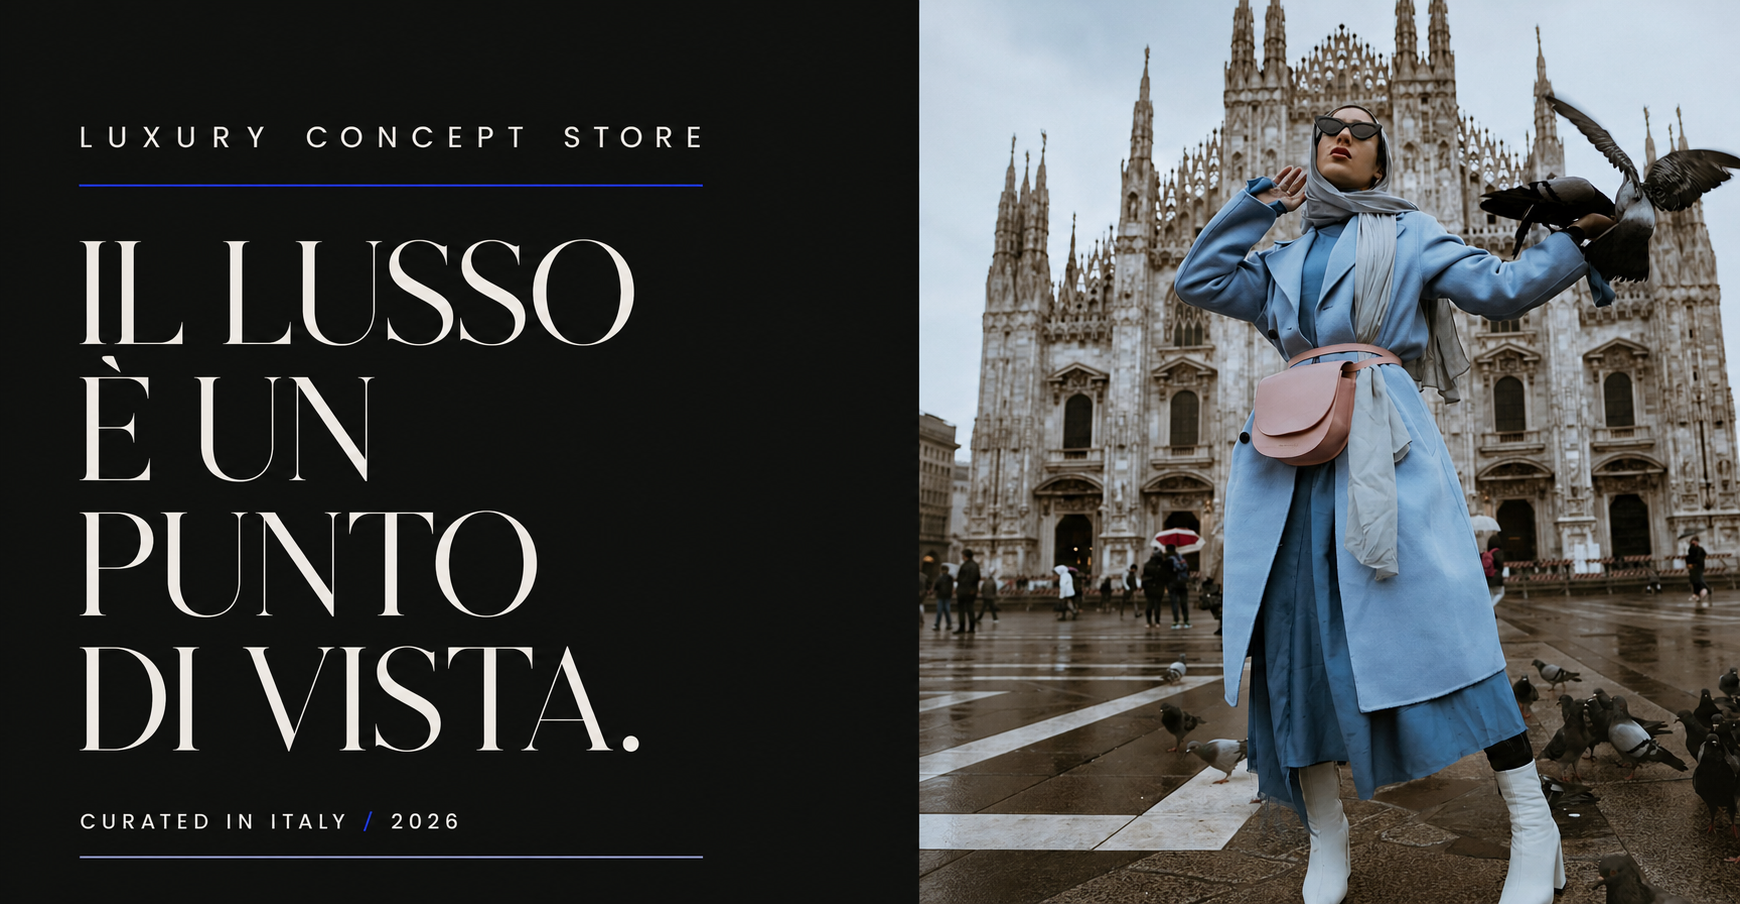
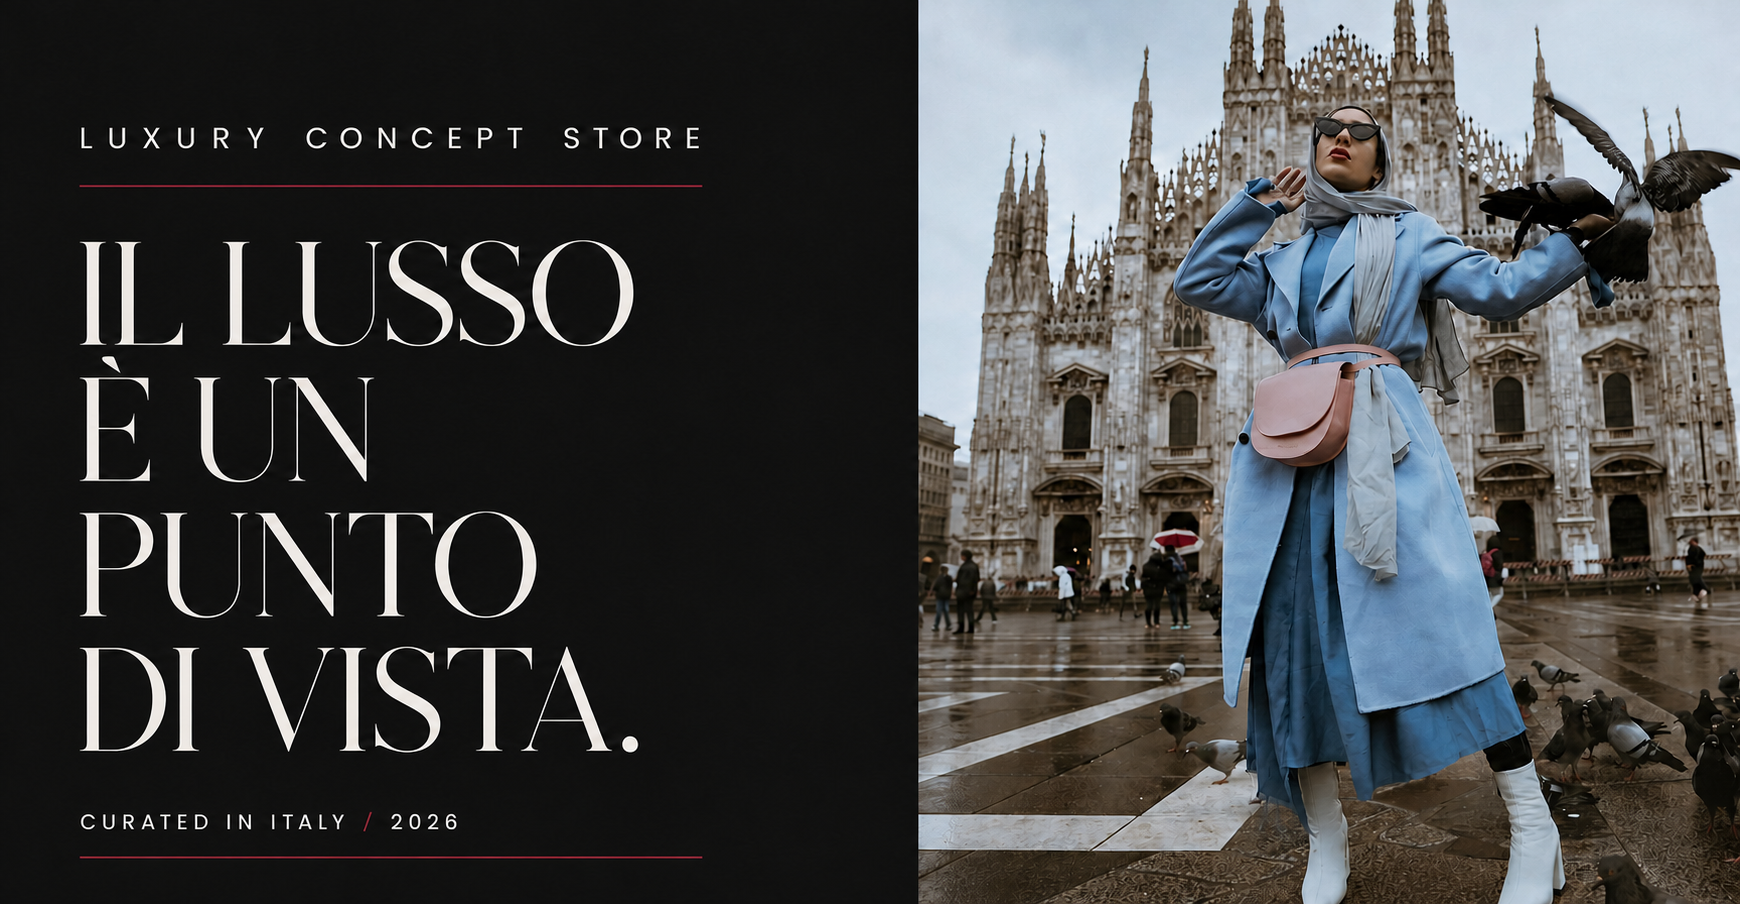
Replace electric blue with oxblood palette

diff --git a/app/globals.css b/app/globals.css
@@ -5,7 +5,8 @@
   --paper: #f0ede6;
   --chalk: #faf9f5;
   --soft: #d9d5cb;
-  --blue: #3157ed;
+  --accent: #6b2737;
+  --accent-soft: #c99aa3;
   --line: rgba(17, 18, 16, 0.18);
   --serif: Baskerville, "Palatino Linotype", "Book Antiqua", Georgia, serif;
   --sans: "Helvetica Neue", Helvetica, Arial, sans-serif;
@@ -29,10 +30,10 @@ body, button, input, textarea, select { font-family: var(--sans); }
 a { color: inherit; text-decoration: none; }
 button { border: 0; background: none; color: inherit; cursor: pointer; }
 img { display: block; max-width: 100%; }
-::selection { background: var(--blue); color: #fff; }
+::selection { background: var(--accent); color: #fff; }
 
 a:focus-visible, button:focus-visible, input:focus-visible, textarea:focus-visible, select:focus-visible {
-  outline: 2px solid var(--blue);
+  outline: 2px solid var(--accent);
   outline-offset: 4px;
 }
 
@@ -42,7 +43,7 @@ a:focus-visible, button:focus-visible, input:focus-visible, textarea:focus-visib
   grid-template-columns: 1fr auto 1fr;
   align-items: center;
   padding: 0 28px;
-  background: var(--blue);
+  background: var(--accent);
   color: #fff;
   font-size: 8px;
   font-weight: 700;
@@ -112,7 +113,7 @@ a:focus-visible, button:focus-visible, input:focus-visible, textarea:focus-visib
 .store-nav a:hover::after, .store-actions a:hover::after { right: 0; }
 .store-actions { display: flex; justify-content: flex-end; align-items: center; gap: 25px; }
 .store-bag { display: flex; gap: 9px; }
-.store-bag span { color: var(--blue); }
+.store-bag span { color: var(--accent); }
 .store-menu-toggle, .store-mobile-nav { display: none; }
 
 .home-page { overflow: hidden; }
@@ -153,7 +154,7 @@ a:focus-visible, button:focus-visible, input:focus-visible, textarea:focus-visib
   letter-spacing: -.06em;
 }
 
-.hero-copy-panel h1 em { color: #aebdfd; font-weight: 400; }
+.hero-copy-panel h1 em { color: var(--accent-soft); font-weight: 400; }
 
 .hero-copy-bottom {
   display: grid;
@@ -241,7 +242,7 @@ a:focus-visible, button:focus-visible, input:focus-visible, textarea:focus-visib
   display: flex;
   align-items: center;
   overflow: hidden;
-  background: var(--blue);
+  background: var(--accent);
   color: #fff;
   white-space: nowrap;
 }
@@ -266,9 +267,9 @@ a:focus-visible, button:focus-visible, input:focus-visible, textarea:focus-visib
 }
 
 .manifesto-label { display: flex; align-items: flex-start; gap: 15px; padding-top: 9px; }
-.manifesto-label span { color: var(--blue); font-size: 10px; font-weight: 800; }
+.manifesto-label span { color: var(--accent); font-size: 10px; font-weight: 800; }
 .manifesto-label p { margin: 0; font-size: 9px; font-weight: 700; letter-spacing: .18em; text-transform: uppercase; }
-.manifesto-copy > .micro-label { color: var(--blue); }
+.manifesto-copy > .micro-label { color: var(--accent); }
 
 .manifesto-copy h2 {
   max-width: 1160px;
@@ -282,7 +283,7 @@ a:focus-visible, button:focus-visible, input:focus-visible, textarea:focus-visib
 
 .manifesto-lead {
   margin: 0 0 clamp(60px, 9vw, 120px);
-  color: var(--blue);
+  color: var(--accent);
   font-family: var(--serif);
   font-size: clamp(30px, 4vw, 66px);
   font-style: italic;
@@ -303,10 +304,10 @@ a:focus-visible, button:focus-visible, input:focus-visible, textarea:focus-visib
 .category-story { padding: 0 clamp(18px, 3vw, 48px) clamp(110px, 13vw, 190px); background: var(--paper); }
 .category-heading { display: grid; grid-template-columns: 28% 1fr; align-items: end; margin-bottom: 60px; }
 .category-heading > div { display: flex; gap: 14px; padding-bottom: 12px; }
-.category-heading > div span { color: var(--blue); font-size: 10px; font-weight: 700; }
+.category-heading > div span { color: var(--accent); font-size: 10px; font-weight: 700; }
 .category-heading > div p { margin: 0; font-size: 9px; font-weight: 700; letter-spacing: .18em; text-transform: uppercase; }
 .category-heading h2 { margin: 0; font-family: var(--serif); font-size: clamp(52px, 6.4vw, 105px); font-weight: 400; line-height: .9; letter-spacing: -.045em; }
-.category-heading h2 em { color: var(--blue); font-weight: 400; }
+.category-heading h2 em { color: var(--accent); font-weight: 400; }
 
 .category-mosaic { display: grid; grid-template-columns: 1.05fr .78fr 1.07fr; align-items: end; gap: 12px; }
 .category-tile { position: relative; min-height: 660px; overflow: hidden; color: #fff; isolation: isolate; }
@@ -326,16 +327,16 @@ a:focus-visible, button:focus-visible, input:focus-visible, textarea:focus-visib
 .feature-image img { object-fit: cover; object-position: center; }
 .feature-image > span { position: absolute; right: 22px; bottom: 20px; font-size: 8px; font-weight: 700; letter-spacing: .18em; text-transform: uppercase; }
 .feature-copy { position: relative; display: flex; flex-direction: column; align-items: flex-start; justify-content: center; padding: clamp(60px, 8vw, 130px); overflow: hidden; }
-.feature-copy > .micro-label { color: #aebdfd; }
+.feature-copy > .micro-label { color: var(--accent-soft); }
 .feature-copy h2 { position: relative; z-index: 1; margin: 28px 0 38px; font-family: var(--serif); font-size: clamp(62px, 7vw, 120px); font-weight: 400; line-height: .82; letter-spacing: -.055em; }
-.feature-copy h2 em { color: #aebdfd; font-weight: 400; }
+.feature-copy h2 em { color: var(--accent-soft); font-weight: 400; }
 .feature-copy > p:not(.micro-label) { position: relative; z-index: 1; max-width: 500px; margin: 0 0 45px; color: rgba(255,255,255,.62); font-family: var(--serif); font-size: 19px; line-height: 1.55; }
 .text-link { position: relative; z-index: 1; display: inline-flex; gap: 30px; padding-bottom: 9px; border-bottom: 1px solid currentColor; font-size: 9px; font-weight: 700; letter-spacing: .18em; text-transform: uppercase; }
 .feature-signature { position: absolute; right: -24px; bottom: -45px; color: rgba(255,255,255,.035); font-family: var(--serif); font-size: 300px; line-height: .8; }
 
 .objects-section { padding: clamp(100px, 13vw, 190px) clamp(18px, 5vw, 84px); background: var(--chalk); }
 .objects-intro { display: grid; grid-template-columns: 18% 1fr minmax(250px, 360px); align-items: end; gap: 35px; margin-bottom: 65px; }
-.objects-intro > span { align-self: start; color: var(--blue); font-size: 10px; font-weight: 800; }
+.objects-intro > span { align-self: start; color: var(--accent); font-size: 10px; font-weight: 800; }
 .objects-intro h2 { margin: 14px 0 0; font-family: var(--serif); font-size: clamp(60px, 7vw, 110px); font-weight: 400; line-height: .82; letter-spacing: -.05em; }
 .objects-intro > p { margin: 0; padding-top: 20px; border-top: 1px solid var(--ink); font-family: var(--serif); font-size: 18px; line-height: 1.45; }
 .objects-grid { display: grid; grid-template-columns: 1.4fr .8fr; align-items: end; gap: 12px; }
@@ -345,9 +346,9 @@ a:focus-visible, button:focus-visible, input:focus-visible, textarea:focus-visib
 .object-card:hover img { transform: scale(1.025); }
 .object-card > span { position: absolute; right: 16px; bottom: 16px; padding: 9px 12px; background: var(--chalk); font-size: 8px; font-weight: 700; letter-spacing: .15em; text-transform: uppercase; }
 
-.newsletter-section { display: grid; grid-template-columns: 1.1fr .9fr; gap: clamp(60px, 9vw, 150px); padding: clamp(100px, 12vw, 180px) clamp(24px, 7vw, 115px); background: var(--blue); color: #fff; }
+.newsletter-section { display: grid; grid-template-columns: 1.1fr .9fr; gap: clamp(60px, 9vw, 150px); padding: clamp(100px, 12vw, 180px) clamp(24px, 7vw, 115px); background: var(--accent); color: #fff; }
 .newsletter-section h2 { margin: 24px 0 0; font-family: var(--serif); font-size: clamp(54px, 6.6vw, 108px); font-weight: 400; line-height: .85; letter-spacing: -.05em; }
-.newsletter-section h2 em { color: #d9dfff; font-weight: 400; }
+.newsletter-section h2 em { color: #ead9dc; font-weight: 400; }
 .newsletter-copy { align-self: end; }
 .newsletter-copy > p { max-width: 480px; margin: 0 0 55px; font-family: var(--serif); font-size: 20px; line-height: 1.45; }
 .newsletter-form > label { display: block; margin-bottom: 8px; font-size: 8px; font-weight: 700; letter-spacing: .2em; text-transform: uppercase; }
@@ -361,15 +362,15 @@ a:focus-visible, button:focus-visible, input:focus-visible, textarea:focus-visib
 
 .store-footer { background: var(--ink); color: #fff; }
 .footer-statement { min-height: 520px; display: grid; grid-template-columns: 20% 1fr auto; align-items: end; gap: 40px; padding: 80px clamp(24px, 5vw, 82px); border-bottom: 1px solid rgba(255,255,255,.14); }
-.footer-statement > p { align-self: start; margin: 0; color: #aebdfd; font-size: 9px; font-weight: 700; letter-spacing: .2em; text-transform: uppercase; }
+.footer-statement > p { align-self: start; margin: 0; color: var(--accent-soft); font-size: 9px; font-weight: 700; letter-spacing: .2em; text-transform: uppercase; }
 .footer-statement h2 { margin: 0; font-family: var(--serif); font-size: clamp(64px, 8vw, 132px); font-weight: 400; line-height: .8; letter-spacing: -.06em; }
-.footer-statement h2 em { color: #aebdfd; font-weight: 400; }
+.footer-statement h2 em { color: var(--accent-soft); font-weight: 400; }
 .footer-statement > a { display: inline-flex; gap: 20px; padding-bottom: 9px; border-bottom: 1px solid #fff; font-size: 8px; font-weight: 700; letter-spacing: .16em; text-transform: uppercase; }
 .footer-grid { display: grid; grid-template-columns: 1.7fr .6fr .7fr 1fr; gap: 60px; padding: 75px clamp(24px, 5vw, 82px); }
 .store-wordmark-light strong { font-size: 33px; }
 .store-wordmark-light span { color: rgba(255,255,255,.62); }
 .footer-links { display: flex; flex-direction: column; align-items: flex-start; gap: 10px; font-style: normal; }
-.footer-links > p { margin: 0 0 12px; color: #aebdfd; font-size: 8px; font-weight: 700; letter-spacing: .18em; text-transform: uppercase; }
+.footer-links > p { margin: 0 0 12px; color: var(--accent-soft); font-size: 8px; font-weight: 700; letter-spacing: .18em; text-transform: uppercase; }
 .footer-links a, .footer-links span { color: rgba(255,255,255,.62); font-family: var(--serif); font-size: 14px; line-height: 1.35; }
 .footer-links a:hover { color: #fff; }
 .footer-legal { min-height: 70px; display: grid; grid-template-columns: 1fr auto 1fr; align-items: center; gap: 30px; padding: 0 clamp(24px, 5vw, 82px); border-top: 1px solid rgba(255,255,255,.14); color: rgba(255,255,255,.38); font-size: 7px; font-weight: 700; letter-spacing: .16em; text-transform: uppercase; }
@@ -387,7 +388,7 @@ a:focus-visible, button:focus-visible, input:focus-visible, textarea:focus-visib
   .store-mobile-nav { position: absolute; top: 100%; right: 0; left: 0; display: grid; grid-template-columns: repeat(5, 1fr); background: var(--chalk); border-top: 1px solid var(--line); border-bottom: 1px solid var(--line); opacity: 0; transform: translateY(-110%); pointer-events: none; transition: opacity 220ms ease, transform 300ms ease; }
   .store-mobile-nav.is-open { opacity: 1; transform: translateY(0); pointer-events: auto; }
   .store-mobile-nav > a { min-height: 130px; display: flex; flex-direction: column; justify-content: space-between; padding: 18px; border-right: 1px solid var(--line); font-family: var(--serif); font-size: 25px; }
-  .store-mobile-nav > a span { color: var(--blue); font-family: var(--sans); font-size: 8px; }
+  .store-mobile-nav > a span { color: var(--accent); font-family: var(--sans); font-size: 8px; }
   .mobile-nav-index, .mobile-nav-footer { display: none; }
   .new-hero { grid-template-columns: 46% 1fr; }
   .hero-copy-bottom { grid-template-columns: 1fr; }
@@ -411,7 +412,7 @@ a:focus-visible, button:focus-visible, input:focus-visible, textarea:focus-visib
   .store-bag { font-size: 8px !important; }
   .store-mobile-nav { position: fixed; top: 100px; bottom: 0; grid-template-columns: 1fr; align-content: start; overflow-y: auto; transform: translateX(-100%); }
   .store-mobile-nav.is-open { transform: translateX(0); }
-  .mobile-nav-index { display: block; padding: 20px; color: var(--blue); font-size: 8px; font-weight: 700; letter-spacing: .18em; text-transform: uppercase; }
+  .mobile-nav-index { display: block; padding: 20px; color: var(--accent); font-size: 8px; font-weight: 700; letter-spacing: .18em; text-transform: uppercase; }
   .store-mobile-nav > a { min-height: 74px; flex-direction: row; align-items: center; justify-content: flex-start; gap: 20px; padding: 15px 20px; border-right: 0; border-bottom: 1px solid var(--line); font-size: 28px; }
   .mobile-nav-footer { display: grid; gap: 8px; padding: 24px 20px; font-family: var(--serif); font-size: 14px; }
 

diff --git a/app/commerce.css b/app/commerce.css
@@ -14,14 +14,14 @@
 .commerce-kicker {
   grid-column: 1 / -1;
   margin: 0;
-  color: var(--blue);
+  color: var(--accent);
   font-size: 9px;
   font-weight: 800;
   letter-spacing: .2em;
   text-transform: uppercase;
 }
 
-.commerce-hero .commerce-kicker { color: #aebdfd; }
+.commerce-hero .commerce-kicker { color: var(--accent-soft); }
 .commerce-hero h1, .checkout-heading h1 {
   margin: 0;
   font-family: var(--serif);
@@ -31,7 +31,7 @@
   letter-spacing: -.065em;
 }
 
-.commerce-hero h1 em, .checkout-heading h1 em { color: #aebdfd; font-weight: 400; }
+.commerce-hero h1 em, .checkout-heading h1 em { color: var(--accent-soft); font-weight: 400; }
 .commerce-hero-copy { align-self: end; margin: 0; padding-top: 22px; border-top: 1px solid rgba(255,255,255,.45); color: rgba(255,255,255,.66); font-family: var(--serif); font-size: 19px; line-height: 1.5; }
 
 .shop-filters {
@@ -47,8 +47,8 @@
 .shop-filters a, .shop-filters > span { font-size: 8px; font-weight: 800; letter-spacing: .18em; text-transform: uppercase; }
 .shop-filters a { position: relative; color: rgba(17,18,16,.45); }
 .shop-filters a.is-active, .shop-filters a:hover { color: var(--ink); }
-.shop-filters a.is-active::after { content: ""; position: absolute; right: 0; bottom: -30px; left: 0; height: 2px; background: var(--blue); }
-.shop-filters > span { margin-left: auto; color: var(--blue); }
+.shop-filters a.is-active::after { content: ""; position: absolute; right: 0; bottom: -30px; left: 0; height: 2px; background: var(--accent); }
+.shop-filters > span { margin-left: auto; color: var(--accent); }
 
 .commerce-main { padding: clamp(70px, 8vw, 130px) clamp(18px, 5vw, 82px) clamp(110px, 13vw, 190px); }
 .shop-content { min-height: 650px; background: var(--paper); }
@@ -58,16 +58,16 @@
 .product-card-media img { width: 100%; height: 100%; object-fit: cover; transition: transform 600ms cubic-bezier(.2,.7,.2,1); }
 .commerce-product-card:hover .product-card-media img { transform: scale(1.025); }
 .product-card-media > span { color: rgba(17,18,16,.22); font-family: var(--serif); font-size: 60px; }
-.product-card-media > small { position: absolute; top: 12px; left: 12px; padding: 8px 10px; background: var(--chalk); color: var(--blue); font-size: 8px; font-weight: 800; }
+.product-card-media > small { position: absolute; top: 12px; left: 12px; padding: 8px 10px; background: var(--chalk); color: var(--accent); font-size: 8px; font-weight: 800; }
 .product-card-copy { position: relative; padding: 15px 0 0; }
 .product-card-copy > p { margin: 0 0 7px; color: rgba(17,18,16,.48); font-size: 8px; font-weight: 700; letter-spacing: .14em; text-transform: uppercase; }
 .product-card-copy h2 { max-width: calc(100% - 75px); margin: 0; font-family: var(--serif); font-size: 22px; font-weight: 400; line-height: 1.1; }
 .product-card-copy strong { position: absolute; right: 0; bottom: 2px; font-size: 10px; font-weight: 700; }
 
 .commerce-empty { min-height: 430px; display: grid; grid-template-columns: 35% 1fr; align-items: center; gap: clamp(40px, 8vw, 130px); padding: clamp(55px, 7vw, 105px); border: 1px solid var(--ink); background: var(--chalk); }
-.empty-number { color: var(--blue); font-family: var(--serif); font-size: clamp(130px, 19vw, 310px); font-style: italic; line-height: .7; letter-spacing: -.08em; }
+.empty-number { color: var(--accent); font-family: var(--serif); font-size: clamp(130px, 19vw, 310px); font-style: italic; line-height: .7; letter-spacing: -.08em; }
 .commerce-empty h2 { max-width: 760px; margin: 20px 0 28px; font-family: var(--serif); font-size: clamp(45px, 5.5vw, 90px); font-weight: 400; line-height: .86; letter-spacing: -.045em; }
-.commerce-empty h2 em { color: var(--blue); font-weight: 400; }
+.commerce-empty h2 em { color: var(--accent); font-weight: 400; }
 .commerce-empty div:last-child > p:not(.commerce-kicker) { max-width: 580px; margin: 0 0 32px; color: rgba(17,18,16,.62); font-family: var(--serif); font-size: 18px; line-height: 1.5; }
 .commerce-empty a { display: inline-flex; gap: 28px; padding-bottom: 9px; border-bottom: 1px solid var(--ink); font-size: 8px; font-weight: 800; letter-spacing: .17em; text-transform: uppercase; }
 
@@ -82,25 +82,25 @@
 .product-info-panel { position: sticky; top: 30px; padding: 30px 0; }
 .product-breadcrumb { display: flex; gap: 10px; margin-bottom: 70px; color: rgba(17,18,16,.45); font-size: 8px; font-weight: 800; letter-spacing: .15em; text-transform: uppercase; }
 .product-info-panel h1 { margin: 22px 0 20px; font-family: var(--serif); font-size: clamp(54px, 5.2vw, 88px); font-weight: 400; line-height: .85; letter-spacing: -.05em; }
-.product-price { margin: 0 0 35px; color: var(--blue); font-family: var(--serif); font-size: 27px; }
+.product-price { margin: 0 0 35px; color: var(--accent); font-family: var(--serif); font-size: 27px; }
 .product-copy { max-width: 560px; margin: 0; color: rgba(17,18,16,.62); font-family: var(--serif); font-size: 18px; line-height: 1.6; }
 .purchase-box { margin-top: 38px; padding-top: 28px; border-top: 1px solid var(--ink); }
 .purchase-fields { display: grid; grid-template-columns: 1fr 110px; gap: 10px; }
 .purchase-box label, .checkout-form label { display: grid; gap: 8px; font-size: 8px; font-weight: 800; letter-spacing: .15em; text-transform: uppercase; }
 .purchase-box select, .purchase-box input, .checkout-form input, .checkout-form textarea { width: 100%; min-height: 51px; padding: 13px 15px; border: 1px solid var(--line); border-radius: 0; outline: none; background: var(--chalk); color: var(--ink); font-size: 14px; }
-.purchase-box select:focus, .purchase-box input:focus, .checkout-form input:focus, .checkout-form textarea:focus { border-color: var(--blue); }
+.purchase-box select:focus, .purchase-box input:focus, .checkout-form input:focus, .checkout-form textarea:focus { border-color: var(--accent); }
 .purchase-box > button, .checkout-submit { width: 100%; min-height: 58px; display: flex; align-items: center; justify-content: space-between; margin-top: 11px; padding: 0 20px; background: var(--ink); color: #fff; font-size: 9px; font-weight: 800; letter-spacing: .16em; text-transform: uppercase; transition: background 180ms ease; }
-.purchase-box > button:hover, .checkout-submit:hover { background: var(--blue); }
+.purchase-box > button:hover, .checkout-submit:hover { background: var(--accent); }
 .purchase-box > button:disabled, .checkout-submit:disabled { background: #8f8d87; cursor: not-allowed; }
-.purchase-box > p { margin: 14px 0 0; color: var(--blue); font-family: var(--serif); font-size: 14px; }
+.purchase-box > p { margin: 14px 0 0; color: var(--accent); font-family: var(--serif); font-size: 14px; }
 .purchase-box > p a { text-decoration: underline; }
 .product-services { display: grid; margin-top: 45px; border-top: 1px solid var(--line); }
 .product-services p { display: grid; grid-template-columns: 35px 1fr; margin: 0; padding: 15px 0; border-bottom: 1px solid var(--line); font-size: 9px; font-weight: 700; letter-spacing: .12em; text-transform: uppercase; }
-.product-services span { color: var(--blue); }
+.product-services span { color: var(--accent); }
 
-.checkout-heading { min-height: 470px; display: grid; grid-template-columns: 1fr minmax(250px, 380px); align-content: end; gap: 40px; padding: 85px clamp(22px, 5vw, 82px) 60px; background: var(--blue); color: #fff; }
+.checkout-heading { min-height: 470px; display: grid; grid-template-columns: 1fr minmax(250px, 380px); align-content: end; gap: 40px; padding: 85px clamp(22px, 5vw, 82px) 60px; background: var(--accent); color: #fff; }
 .checkout-heading .commerce-kicker { color: rgba(255,255,255,.58); }
-.checkout-heading h1 em { color: #dce2ff; }
+.checkout-heading h1 em { color: #ead9dc; }
 .checkout-heading > p:last-child { align-self: end; margin: 0; padding-top: 20px; border-top: 1px solid rgba(255,255,255,.55); font-family: var(--serif); font-size: 18px; line-height: 1.45; }
 .checkout-content { background: var(--chalk); }
 .checkout-empty { background: var(--paper); }
@@ -114,8 +114,8 @@
 .payment-methods { display: grid; gap: 8px; margin: 25px 0 0; padding: 0; border: 0; }
 .payment-methods legend { width: 100%; margin-bottom: 18px; padding-top: 28px; border-top: 1px solid var(--ink); font-family: var(--serif); font-size: 28px; }
 .payment-choice { min-height: 105px; display: grid !important; grid-template-columns: auto 1fr auto; align-items: center; gap: 17px !important; padding: 20px; border: 1px solid var(--line); background: var(--paper); cursor: pointer; }
-.payment-choice.is-selected { border-color: var(--blue); box-shadow: inset 0 0 0 1px var(--blue); }
-.payment-choice input { width: 16px; min-height: 16px; accent-color: var(--blue); }
+.payment-choice.is-selected { border-color: var(--accent); box-shadow: inset 0 0 0 1px var(--accent); }
+.payment-choice input { width: 16px; min-height: 16px; accent-color: var(--accent); }
 .payment-choice span { display: grid; gap: 5px; }
 .payment-choice strong { font-family: var(--serif); font-size: 21px; font-weight: 400; letter-spacing: 0; text-transform: none; }
 .payment-choice small, .payment-choice em { color: rgba(17,18,16,.53); font-size: 10px; font-style: normal; font-weight: 400; letter-spacing: 0; line-height: 1.4; text-transform: none; }
@@ -126,16 +126,16 @@
 .order-summary { position: sticky; top: 30px; padding: 35px; background: var(--ink); color: #fff; }
 .summary-heading { display: flex; align-items: center; justify-content: space-between; margin-bottom: 35px; }
 .summary-heading p { margin: 0; font-family: var(--serif); font-size: 31px; }
-.summary-heading span { color: #aebdfd; font-family: var(--serif); font-size: 27px; }
+.summary-heading span { color: var(--accent-soft); font-family: var(--serif); font-size: 27px; }
 .order-line { display: grid; grid-template-columns: 1fr auto; gap: 18px; padding: 18px 0; border-bottom: 1px solid rgba(255,255,255,.15); font-family: var(--serif); font-size: 16px; }
 .order-line small { color: rgba(255,255,255,.48); }
 .order-line strong { font-weight: 400; }
 .order-total { margin-top: 18px; border-bottom: 0; font-size: 26px; }
-.order-total strong { color: #aebdfd; }
+.order-total strong { color: var(--accent-soft); }
 .summary-note { margin: 30px 0 0; color: rgba(255,255,255,.45); font-size: 9px; line-height: 1.5; }
 .order-confirmation { max-width: 900px; min-height: 70vh; }
 .order-confirmation h1 { margin: 25px 0; font-family: var(--serif); font-size: clamp(58px, 8vw, 110px); font-weight: 400; line-height: .85; }
-.order-confirmation h1 em { color: var(--blue); font-weight: 400; }
+.order-confirmation h1 em { color: var(--accent); font-weight: 400; }
 .bank-details { padding: 25px; border: 1px solid var(--line); font-family: var(--serif); line-height: 1.7; }
 
 @media (max-width: 1100px) {
